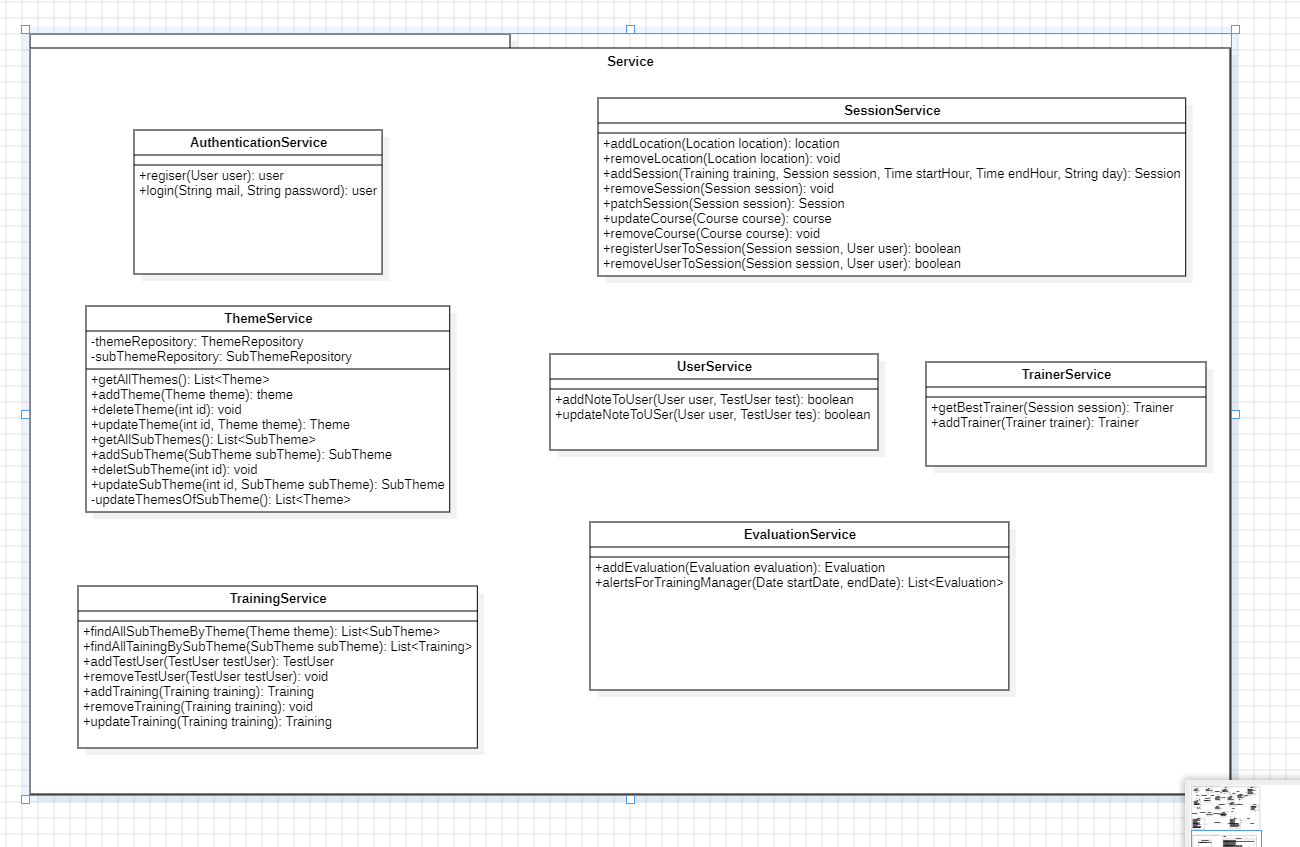
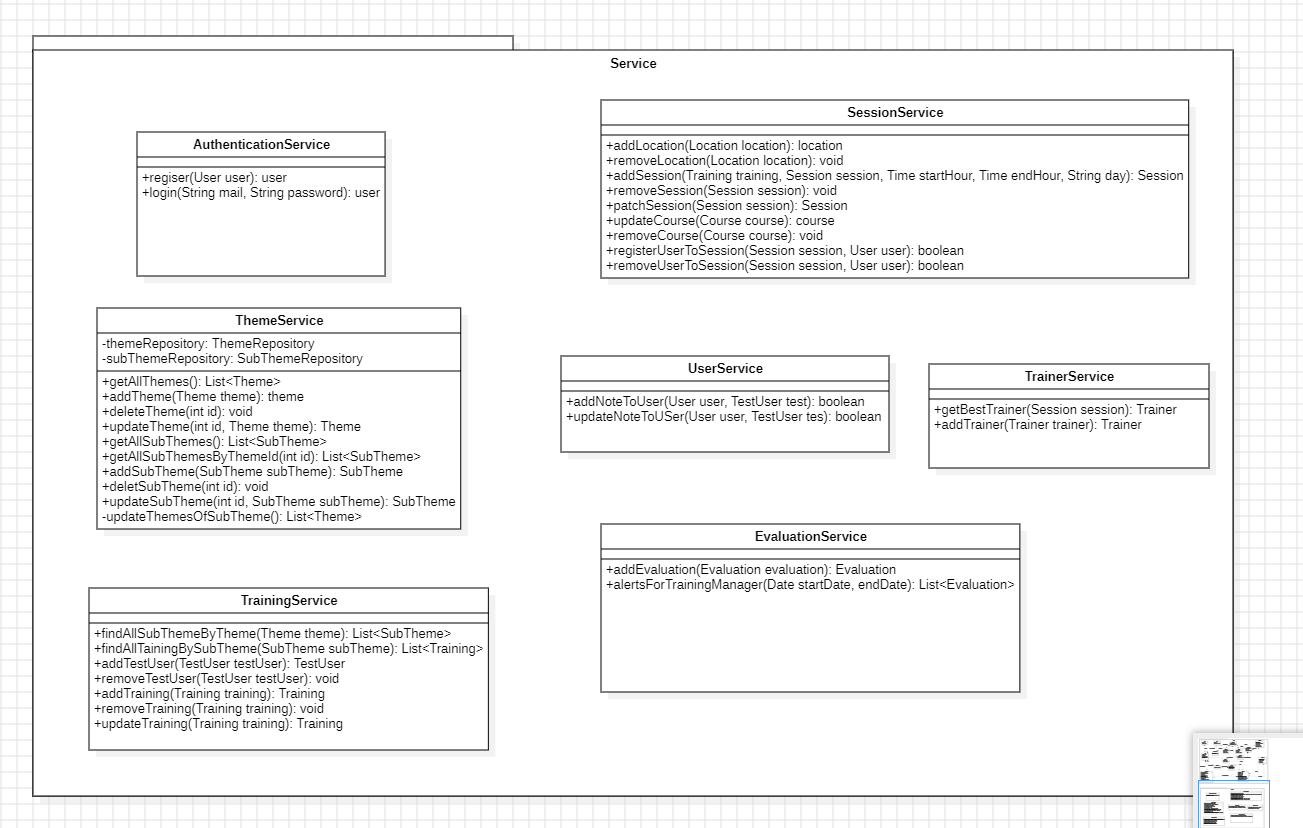
front thème et sous-thème

diff --git a/frontend/IT_Training_front/src/components/theme/HomeTheme.jsx b/frontend/IT_Training_front/src/components/theme/HomeTheme.jsx
@@ -1,12 +1,13 @@
 import React, { useEffect } from 'react';
-import { useSearchParams } from 'react-router-dom';
+import { useParams, useSearchParams } from 'react-router-dom';
 import {useDispatch, useSelector} from 'react-redux'
-import { fetchAllTheme } from './themeSlice';
+import { fetchAllTheme, fetchAllSubThemeByThemeId } from './themeSlice';
 import ThemeList from './ThemeList';
 
 const HomeTheme = () => {
     const [searchParams, setSearchParams] = useSearchParams();
     const dispatch = useDispatch();
+    const { idSubTheme } = useParams();
 
     const mode = searchParams.get("mode") ?? "theme"; 
     const list = useSelector((state) => state.theme.list);
@@ -16,11 +17,15 @@ const HomeTheme = () => {
                 case "theme":
                     dispatch(fetchAllTheme());                    
                     break;
-            
+                case "subtheme":          
+                    if (idSubTheme) {
+                        dispatch(fetchAllSubThemeByThemeId(idSubTheme))
+                    }              
+                    break;            
                 default:
                     break;
             }
-    }, [])
+    }, [mode, idSubTheme, dispatch])
 
     
 

diff --git a/frontend/IT_Training_front/src/components/theme/ThemeList.jsx b/frontend/IT_Training_front/src/components/theme/ThemeList.jsx
@@ -1,12 +1,33 @@
 import React from 'react';
 import ThemeCube from './ThemeCube';
 import classes from './Theme.module.css'
+import { Link, useNavigate, useSearchParams } from 'react-router-dom';
 
 const ThemeList = ({list}) => {
+    const [searchParams, setSearchParams] = useSearchParams();
+    const navigate = useNavigate();
+    const mode = searchParams.get("mode") ?? "theme";
+
+    const linkTo = (id) =>{  
+        switch (mode) {
+            case "theme":
+                navigate(`/${id}?mode=subtheme`)   
+                break;
+            case "subtheme":
+                //TODO
+                console.log("faire la fonction");                
+                break;
+            default:
+                break;
+        }      
+                   
+    }
+
     return (
         <section className={classes.list}>
-            {list.map((theme, index) => (
-                <ThemeCube key={index} theme={theme}/>                
+            {list.map((theme, index) => (            
+                    <ThemeCube key={index} theme={theme} onClick={() => linkTo(theme.id)}/>                 
+                                              
             ))} 
         </section>
     );

diff --git a/frontend/IT_Training_front/src/components/theme/themeSlice.js b/frontend/IT_Training_front/src/components/theme/themeSlice.js
@@ -9,6 +9,13 @@ export const fetchAllTheme = createAsyncThunk("theme/fetchAllTheme", async () =>
     return data;
 });
 
+export const fetchAllSubThemeByThemeId = createAsyncThunk("theme/fetchAllSubThemeByThemeId", async (idTheme) => {
+    const response = await axios.get(`${BASE_URL}subThemes/findByTheme/${idTheme}`);
+    const data = await response.data;
+
+    return data;
+});
+
 const themeSlice = createSlice({
     name:"theme",
     initialState: {
@@ -17,6 +24,10 @@ const themeSlice = createSlice({
     reducers: {},
     extraReducers: (builder) => {
         builder.addCase(fetchAllTheme.fulfilled, (state, actions) => {
+            state.list = actions.payload;
+            console.log(actions.payload);            
+        });
+        builder.addCase(fetchAllSubThemeByThemeId.fulfilled, (state, actions) => {
             state.list = actions.payload;
             console.log(actions.payload);            
         })

diff --git a/frontend/IT_Training_front/src/components/theme/ThemeCube.jsx b/frontend/IT_Training_front/src/components/theme/ThemeCube.jsx
@@ -1,9 +1,9 @@
 import React from 'react';
 import classes from './Theme.module.css'
 
-const ThemeCube = ({theme}) => {
+const ThemeCube = ({theme, onClick}) => {
     return (
-        <div className={classes.card}>
+        <div className={classes.card} onClick={onClick}>
             <img src={theme.imagePath} alt={`logo ${theme.title}`}/>
             <h3>{theme.title} </h3>
         </div>

diff --git a/frontend/IT_Training_front/src/app-routing.jsx b/frontend/IT_Training_front/src/app-routing.jsx
@@ -12,6 +12,9 @@ const router = createBrowserRouter([
             {
                 path: "/",
                 element: <HomeTheme/>
+            },
+            {
+                path: "/:idSubTheme", element: <HomeTheme/>
             }
         ]
     }
